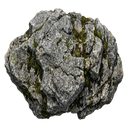
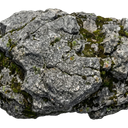
feat: AI-generated world object sprites via Nano Banana 2 + Bria RMBG
Add generation pipeline for world objects (big_tree, palm_tree, mystic_tree,
big_rock, crystal) using fal.ai Nano Banana 2 for raster generation and
Bria background removal for transparency. Fix Bria response parsing
(returns { image: { url } } not { images: [{ url }] }) and add
resizeSquarePNG to center-crop non-square source images before resizing.

diff --git a/scripts/lib/post-process.ts b/scripts/lib/post-process.ts
@@ -56,6 +56,28 @@ export async function resizeToPNG(
     .toBuffer();
 }
 
+/**
+ * Center-crop an image to square, then resize to target size as PNG.
+ * Better for game sprites where source aspect ratio may not be square.
+ */
+export async function resizeSquarePNG(
+  input: Buffer,
+  size: number,
+): Promise<Buffer> {
+  const image = sharp(input);
+  const meta = await image.metadata();
+  const w = meta.width ?? size;
+  const h = meta.height ?? size;
+  const minDim = Math.min(w, h);
+  const left = Math.floor((w - minDim) / 2);
+  const top = Math.floor((h - minDim) / 2);
+  return sharp(input)
+    .extract({ left, top, width: minDim, height: minDim })
+    .resize(size, size, { fit: "fill" })
+    .png()
+    .toBuffer();
+}
+
 // ------------------------------------------------------- chroma key bg remove
 
 /**

diff --git a/scripts/generate-ai-assets.ts b/scripts/generate-ai-assets.ts
@@ -29,6 +29,7 @@ import {
 import {
   resizeToWebP,
   resizeToPNG,
+  resizeSquarePNG,
   saveBuffer,
 } from "./lib/post-process.js";
 
@@ -294,7 +295,7 @@ async function generateNanoBananaObject(
 
   // 3. Download transparent image and resize to target size as PNG
   const buf = await downloadUrl(transparentUrl);
-  const resized = await resizeToPNG(buf, asset.size, asset.size);
+  const resized = await resizeSquarePNG(buf, asset.size);
   const filePath = join(outDir, `${asset.key}.png`);
   saveBuffer(filePath, resized);
 

diff --git a/scripts/lib/fal-client.ts b/scripts/lib/fal-client.ts
@@ -197,8 +197,6 @@ export async function removeBackground(imageUrl: string): Promise<string> {
     },
   });
 
-  console.log(`  [Bria RMBG] Response:`, JSON.stringify(result.data).slice(0, 500));
-
   const data = result.data as Record<string, unknown>;
   // Bria may return { images: [{ url }] } or { image: { url } } or { result_url }
   if (Array.isArray(data.images) && data.images[0]) {
